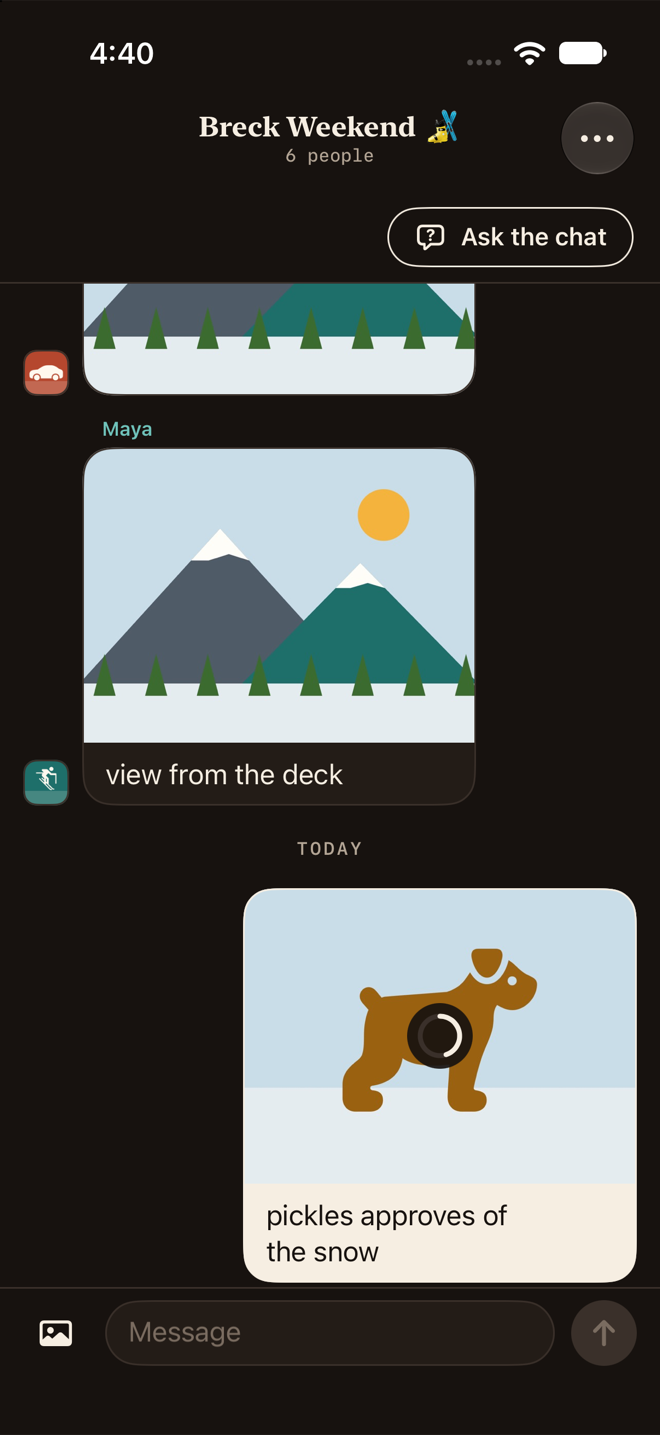
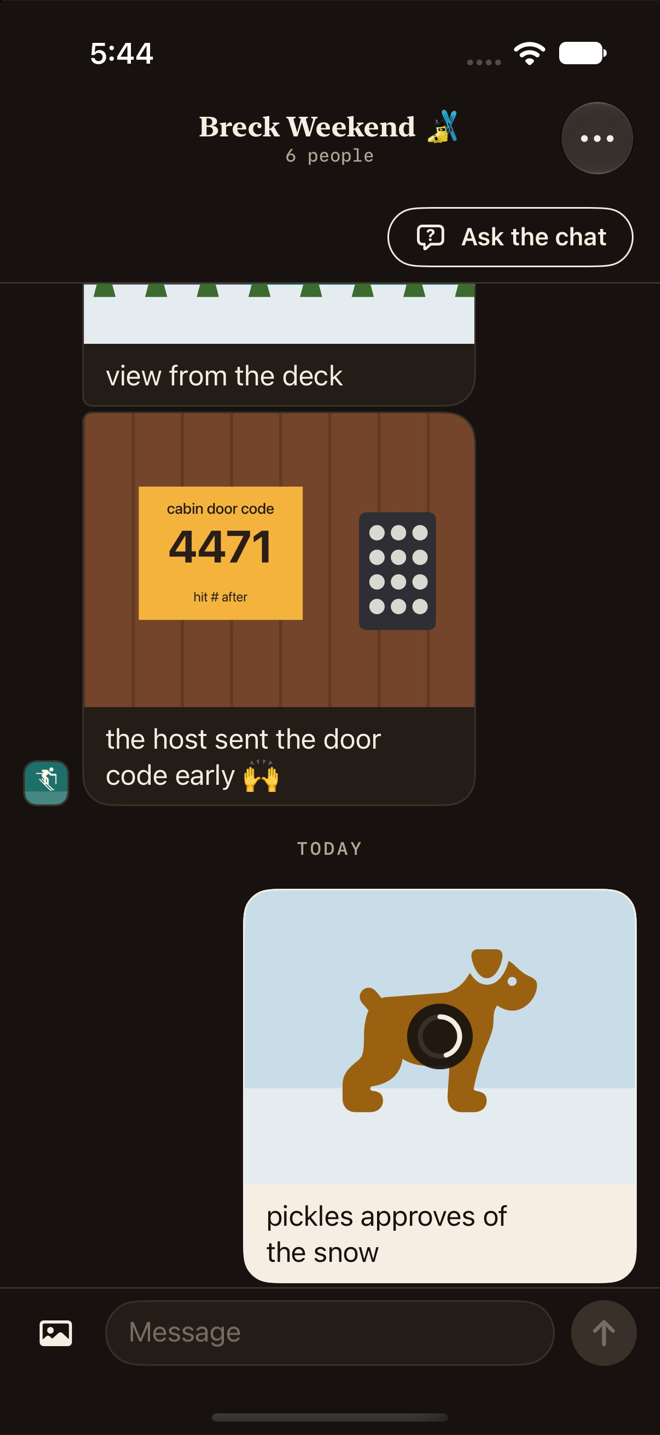
Photos 3: docs and screenshots
How Muse Spark reads the photos (and what it costs), the recipe, the
source chip's thumbnail, and the brief and answer citing the made-up
door-code photo, light and dark.

diff --git a/docs/DESIGN.md b/docs/DESIGN.md
@@ -154,7 +154,7 @@ Catch me up and Ask the chat (`ios/Ketchup/AI/`) lay Muse Spark's JSON out on th
 | `SheetBar` | The pinned top of both sheets: the chat's name as a running head, and Done. |
 | `BriefMarks` | Marks money and times in Muse Spark's sentences ("$90", "Saturday 6am", "by Thursday"; not an old "from $140"), or the reader's name in a question. Show with `.markRuns()`. |
 | `MuseByline` | "Read by Muse Spark · 302 messages · 23 s", or "Saved" for a cached brief. |
-| `RefChips` | Sources: a dot in the sender's chat color and how the message starts. One chip and a "+2" to a line; a tap jumps to the message. |
+| `RefChips` | Sources: a dot in the sender's chat color and how the message starts; a photo shows itself, small, where the dot goes. One chip and a "+2" to a line; a tap jumps to the message. |
 | `SkimmingView` | The wait: the real unread messages pass a window while the marker reads each line, an honest clock, "Usually about 20 seconds". A still list with Reduce Motion. |
 | `ForYouList` | The reader's to-dos. The circle checks one off with `.struck()`, a pen stroke through the words. |
 | `PlanCard` | A `Ticket`: what, where, who, sources and Add to calendar; the stub has day, date, time and the stamp. Soonest first. |
@@ -248,7 +248,7 @@ xcrun simctl launch --terminate-running-process <udid> com.vibetemp.ketchup -scr
 | `store-check` | Not a screen: runs the on-device copy (`Store/DeviceStore.swift`) against a scratch folder and lists what passed (`Debug/StoreCheckScreen.swift`) |
 | `web-instagram`, `web-snapchat`, `web-intro`, `web-reading`, `web-brief`, `web-error`, `web-quote` | The web-chat screens (`Debug/WebChatPreviewScreen.swift`) on the synthetic threads. `web-instagram` and `web-snapchat` are each page on its bundled fixture; `web-brief` is a hand-written brief, not a Muse Spark call |
 | `settings`, `settings-sheet`, `settings-name`, `settings-delete` | Settings and its pages (`Debug/PeoplePreviewScreen.swift`). `settings` is full screen (add `-section web`, `account` or `about`); `settings-sheet` is the sheet as the inbox opens it |
-| `photo-crop`, `photo-inbox`, `photo-chat`, `photo-info`, `photo-thread`, `photo-sending`, `photo-attach`, `photo-viewer` | Photos (`Debug/PhotosPreviewScreen.swift`): the cropper on a made-up mountain photo; the inbox, the Breck thread and its members with made-up profile photos (`Debug/PreviewPhotos.swift`; Sam has none, to show the monogram); the end of Breck with photos in it, David's photo uploading (a pretend 20 s upload), one waiting in the composer, and the viewer on Maya's cabin |
+| `photo-crop`, `photo-inbox`, `photo-chat`, `photo-info`, `photo-thread`, `photo-sending`, `photo-attach`, `photo-viewer`, `photo-catchup`, `photo-answer` | Photos (`Debug/PhotosPreviewScreen.swift`): the cropper on a made-up mountain photo; the inbox, the Breck thread and its members with made-up profile photos (`Debug/PreviewPhotos.swift`; Sam has none, to show the monogram); the end of Breck with photos in it, David's photo uploading (a pretend 20 s upload), one waiting in the composer, and the viewer on Maya's cabin; `photo-catchup` (add `-section highlights`) and `photo-answer` cite Maya's door-code photo with its thumbnail |
 
 Light and dark screenshots:
 

diff --git a/CLAUDE.md b/CLAUDE.md
@@ -139,17 +139,28 @@ Code: `ios/Ketchup/Photos/` (`Avatar`, `AvatarCropper`, `ProfilePhotos` with
   original bytes on disk in `Caches/photos` (150 MB, least recently used goes first),
   keyed `bucket/path`, emptied on sign-out. Paths never change, so nothing goes stale,
   and a private photo is signed only when it isn't on disk yet.
-- In the transcript Muse Spark reads, a photo is `[photo]` and its caption, with a line in
-  the prompt's header saying what that means (only when the chat has photos).
-  `_shared/transcript.ts` changed, so after merge redeploy both `catch-up` and
-  `catch-up-text`; `deno test supabase/functions/_shared/` must pass (4 tests).
+- Muse Spark sees photos (`_shared/photos.ts`): `catch-up` attaches the newest 6 photos among
+  the messages it reads (catch-up: the unread ones; Ask: its 800-message window) as
+  `image_url` parts with `data:` URLs of the small copies, downloaded with the caller's
+  token (400 KB cap, 6 s timeout; a failure leaves the line `[photo]`). Transcript lines
+  say `[photo N] caption`, each image is labelled `Photo N: [m12] from Maya`, and the
+  header explains both (only when the window has photos). A 400 from Meta with photos
+  attached retries once without them. The log line gains `photos` (how many attached).
+  Measured Nov 3, 2026, on the 302-message demo chat with 2 made-up photos: about 640
+  prompt tokens a photo, no added time (17.1 s to 16.0 s); the brief cited the door-code
+  photo. `deno test supabase/functions/_shared/` must pass (6 tests). `_shared` changed,
+  so after merge redeploy both `catch-up` and `catch-up-text`.
+- Source chips: `RefContext.photo` returns a message's small copy, and `RefChip` draws it
+  where the sender's dot goes (`ChatView.refContext` passes it).
 - Settings has Add a photo (Change your photo once there is one) and Remove your photo,
   under You; `.profilePhotoPicker` is on `SettingsView`. The inbox's top-left button and
   Settings' header show your photo.
 - Offline previews: `-screen photo-crop`, `photo-inbox`, `photo-chat`, `photo-info`,
-  `photo-thread`, `photo-sending`, `photo-attach`, `photo-viewer`. The photos are drawn on
-  the fly (`Debug/PreviewPhotos.swift`, no real people); Sam keeps his monogram to show the
-  fallback. `photo-sending` sends Pickles the dog with a pretend 20 s upload.
+  `photo-thread`, `photo-sending`, `photo-attach`, `photo-viewer`, `photo-catchup` (add
+  `-section highlights`), `photo-answer`. The photos are drawn on the fly
+  (`Debug/PreviewPhotos.swift`, no real people); Sam keeps his monogram to show the
+  fallback. `photo-sending` sends Pickles the dog with a pretend 20 s upload; the brief and
+  answer use Muse Spark's real words about the door-code photo.
 - Checks: the RLS suite covers both parts (49/49 with Settings' checks, Nov 3, 2026). As anon, with the
   publishable key: `POST /storage/v1/object/list/avatars` returns `[]` and an upload
   returns 403. After real use: `select id, avatar_path from profiles where avatar_path is

diff --git a/README.md b/README.md
@@ -43,7 +43,8 @@ time are we leaving?" and get groaned at.
   initials stand in.
 - **Photos in the chat.** Send a photo with a caption or without one. It shows in your
   bubble straight away with a ring filling as it uploads, keeps its shape in the thread,
-  and opens full screen to zoom and share. Only the chat's members can see it.
+  and opens full screen to zoom and share. Only the chat's members can see it, and Catch
+  me up reads it along with the messages: a door code in a photo makes the brief.
 
 <table>
   <tr>
@@ -97,6 +98,15 @@ checks that every claim is backed by a real message.
 8. **Ready before you tap.** Opening a chat with 15+ unread starts the catch-up in the
    background, so the tap usually shows the result instantly. The read cursor still only
    moves when you actually open the result.
+9. **It reads the photos too.** The newest 6 photos among the messages it reads go along
+   as images ([`photos.ts`](supabase/functions/_shared/photos.ts)): their 768 px copies,
+   downloaded with the reader's own token (so RLS still decides) and sent inline, never
+   as a link Meta would fetch. Each one is labelled with its message ref and sender, so a
+   bullet can cite a photo like any message, and its source chip shows the photo. If
+   Meta refuses a photo, the call runs again without them. On the demo chat with two
+   made-up photos (November 3, 2026), the brief said "Maya shared the cabin door code
+   early: 4471, hit # after", a code that was only in the photo, and Ask answered "what's
+   the code for the cabin door?" from it in 3.3 seconds.
 
 Calling the Meta Model API ([`muse.ts`](supabase/functions/_shared/muse.ts)):
 
@@ -108,6 +118,9 @@ Calling the Meta Model API ([`muse.ts`](supabase/functions/_shared/muse.ts)):
   planted plan, debt and open question came back correct. `minimal` effort halves the
   time (12 s) but invented a time the chat never gave, so `low` stays the default and the
   background prefetch hides the wait. "Ask the chat" takes about 3 seconds.
+- Photos are `image_url` parts with a `data:` URL in the user message. A 768 px photo is
+  about 640 tokens: the demo catch-up went from 9,634 to 10,917 tokens in with two photos
+  (about a tenth of a cent each) and took no longer (17.1 s without, 16.0 s with).
 - It retries once on 429/500/503 and honors `Retry-After`. The key is read from the edge
   function's secrets and is never sent to the app.
 
@@ -172,7 +185,8 @@ flowchart LR
   JPEG (66 to 153 KB on the simulator's sample photos). A chat photo goes up as two
   JPEGs: at most 2048 px for the viewer, and a 768 px copy for the thread. The bubble is
   laid out from the photo's stored size, so the thread doesn't jump as photos load. In
-  the transcript Muse Spark reads, a photo is a `[photo]` line with its caption.
+  the transcript Muse Spark reads, a photo is a `[photo N]` line with its caption, and the
+  photo itself goes along as an image (see "How it uses Muse Spark").
 
 ### Security
 

diff --git a/docs/screens/photos/README.md b/docs/screens/photos/README.md
@@ -16,6 +16,10 @@ The photos are made up, drawn by the app in preview mode (`ios/Ketchup/Debug/Pre
 <img src="attach-light.png" width="200" alt="A photo in the composer">
 <img src="viewer-light.png" width="200" alt="The viewer">
 </p>
+<p>
+<img src="catchup-light.png" width="200" alt="A highlight citing the door-code photo">
+<img src="answer-dark.png" width="200" alt="Ask answered from the photo, dark">
+</p>
 
 | File | What it shows |
 |---|---|
@@ -23,7 +27,9 @@ The photos are made up, drawn by the app in preview mode (`ios/Ketchup/Debug/Pre
 | `chat` | The Breck thread: each sender's profile photo by the last bubble of their run (Theo's dog, Maya's skier) |
 | `info` | Chat info: members with their photos, Sam with his monogram (he has no photo) |
 | `inbox` | The Chats page: David's photo on the account button, top left |
-| `thread` | The end of Breck: Maya's cabin with a caption, Jordan's mountains without one, Maya's view from the deck |
+| `thread` | The end of Breck: Maya's cabin, Jordan's mountains without a caption, Maya's view from the deck, and her photo of the door code |
 | `sending` | David's photo of Pickles the dog on its way up: the ink ring about half full (a pretend upload) |
 | `attach` | A picked photo waiting above the field with its x, the caption typed, the ketchup send ready |
 | `viewer` | Maya's cabin full screen on dark paper: Done and Share up top, who sent it and when under it |
+| `catchup` | Highlights, first: "Maya shared the cabin door code early: 4471, hit # after", its source chip showing the photo (Muse Spark's words from a real call) |
+| `answer` | Ask: "what's the code for the cabin door?" answered "4471, hit # after. Maya posted it from the host.", sourced to the photo |
